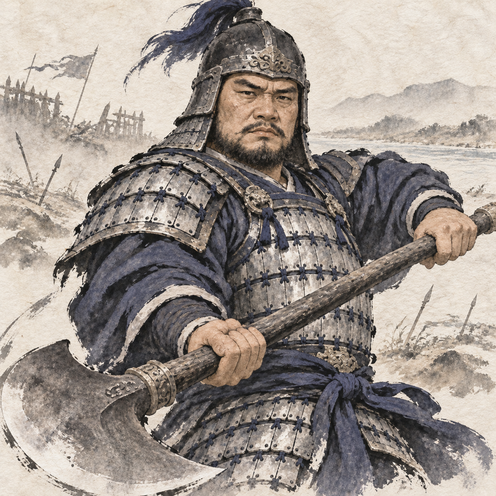
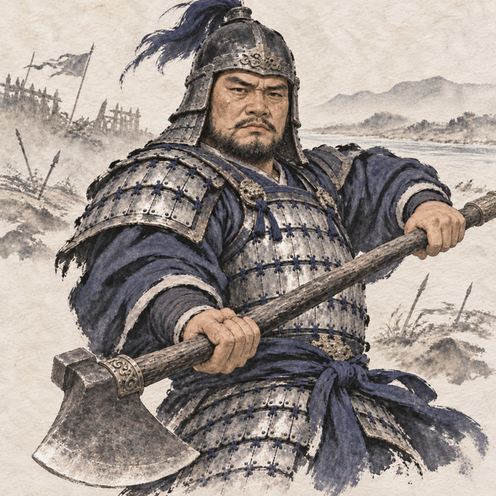
fix(portraits): 서황 초상의 무기를 큰 도끼로 수정

diff --git a/tools/illustrations/portraits/sheets/prompts.md b/tools/illustrations/portraits/sheets/prompts.md
@@ -209,3 +209,8 @@ Edit the reference portrait of Xiahou Dun (Three Kingdoms general). Keep everyth
 - 주창: 모피 산적 차림은 그대로, 챙 넓은 삿갓을 쓰고 정면을 보게 다시 그림. 원본 `zhoucang-single.png` = `zhoucang-v3-single.png`, 이전 판은 `zhoucang-v1-single.png`(회색 홑옷)·`zhoucang-v2-single.png`(모피, 맨머리).
   - v3: Zhou Cang of the Chinese Three Kingdoms era, a wild mountain bandit chief from Guandong who swore to follow Guan Yu and carries his great blade, about thirty-five. The novel describes him as tall, with a dark black face, a curly bristling beard and powerful arms. A huge rugged man, broad-shouldered and heavily muscled (powerful, NOT fat). FACE: a dark sun-blackened face, fierce wide round eyes under heavy bristling brows, a broad flat nose, a strong jaw, a wild thick curly black beard and moustache running into his sideburns; untamed and ferocious yet full of loyal spirit, a bold defiant expression. He wears a wide-brimmed conical woven straw hat (a broad rain hat with a wide brim) tied under the chin with a hide cord, wild black hair and strands escaping beneath the brim. He wears rough bandit clothing of animal hides and furs: a shaggy wolf-pelt mantle over both shoulders with the head-less pelt hanging down his back, a coarse fur-trimmed leather vest open at the chest, a wide hide belt with a bone buckle, fur-wrapped forearms, a wooden bead cord at his neck. He holds a long-handled great crescent blade (guandao) upright beside him gripped in one huge fist, the other fist on his hip, facing the viewer straight on, front view, looking directly at the viewer from under the hat brim. Background in light ink wash: a rocky mountain ridge with a rough log stockade and a torn banner, wind-bent pines, faint. Waist-up portrait, square 1:1 image. This is a portrait for a serious Three Kingdoms strategy game: he must look impressive and dignified, a mature man's face that is clearly his own (the specific features described), NOT a pretty idol face, NOT a generic hero face; never goofy, never fat, never sickly, no grin or laughing. No large anime eyes. No text, no names, no seals, no watermark, no border. Style: East Asian ink wash painting with light watercolor tints, expressive calligraphic brush strokes, soft rice-paper texture background. Match the brushwork, palette and paper of the reference image.
 - 서황·이전: 후보(`candidates/xuhuang·lidian`)를 게임에 씀. 예전 그림은 `sheets/xuhuang-old.png`·`sheets/lidian-old.png`. 나머지 10명은 기존 유지, 악진은 후보 그대로.
+
+### 서황 도끼 고침 (2026-11-15 사용자 선택)
+- "crescent blade"라 적었더니 자루 끝 날이 낫·언월도처럼 나왔다. 지금 그림(`candidates/xuhuang.png`)을 참조로 넘겨 무기만 바꾼 `candidates/xuhuang-axefix-edit.png`를 게임에 씀. 새로 그린 안은 `candidates/xuhuang-axefix-new.png`(어깨에 멘 도끼)로 남김.
+  - edit: Edit the first reference image (a portrait of Xu Huang). Keep EVERYTHING the same — his face, beard, helmet with navy plume, steel lamellar armour, navy tunic, hands, pose, composition, background and the ink-wash brushwork and paper — and change ONLY the weapon. Right now the blade at the end of the shaft looks like a scythe or a glaive; replace it with an unmistakable heavy Chinese battle axe (da fu): a broad, thick, fan-shaped iron axe head whose cutting edge is a wide gently convex arc, the head mounted SIDEWAYS on the haft (perpendicular to it) with the haft passing through the eye of the head, the blade projecting to one side only, a short square hammer-back or spike on the opposite side, a decorative iron collar where head meets haft. The axe head sits at the END of the long wooden haft he is gripping, near his lower-left, clearly reading as a woodsman's axe enlarged into a war axe — NOT a crescent moon blade, NOT a scythe, NOT a guandao, NOT a halberd. Square 1:1, no text, no watermark, no border. (참조: `portraits/xuhuang.png`, `style-samples/4-ink-wash.png`)
+- 다음에 도끼 든 인물은 "crescent" 대신 "broad fan-shaped axe head mounted sideways on the haft, spike on the back"처럼 적는다.

diff --git a/ver5/docs/history.md b/ver5/docs/history.md
@@ -5,6 +5,10 @@
 
 ---
 
+## 2026-11-15 서황 초상 도끼 수정
+- tools/illustrations/portraits/xuhuang.png·assets/graphics/portraits/xuhuang.png: 서황의 무기를 옆으로 날이 달린 큰 도끼로 교체 — 낫·언월도처럼 보이던 모양을 바로잡으려고
+- tools/illustrations/portraits/candidates/xuhuang-axefix-edit.png·xuhuang-axefix-new.png·sheets/prompts.md: 채택한 수정안과 새 그림 후보, 실제 프롬프트 보관 — 선택한 그림의 출처와 다음 도끼 묘사 기준을 남기려고
+
 ## 2026-11-15 UI 데모 실행 시간 확인
 - cmd/_uidemo-vm/main.go: `-timing`으로 게스트 빌드·연결·프레임 재생·PNG 저장 시점 출력 — 캡처 실행에서 시간이 걸리는 단계를 확인하려고
 
